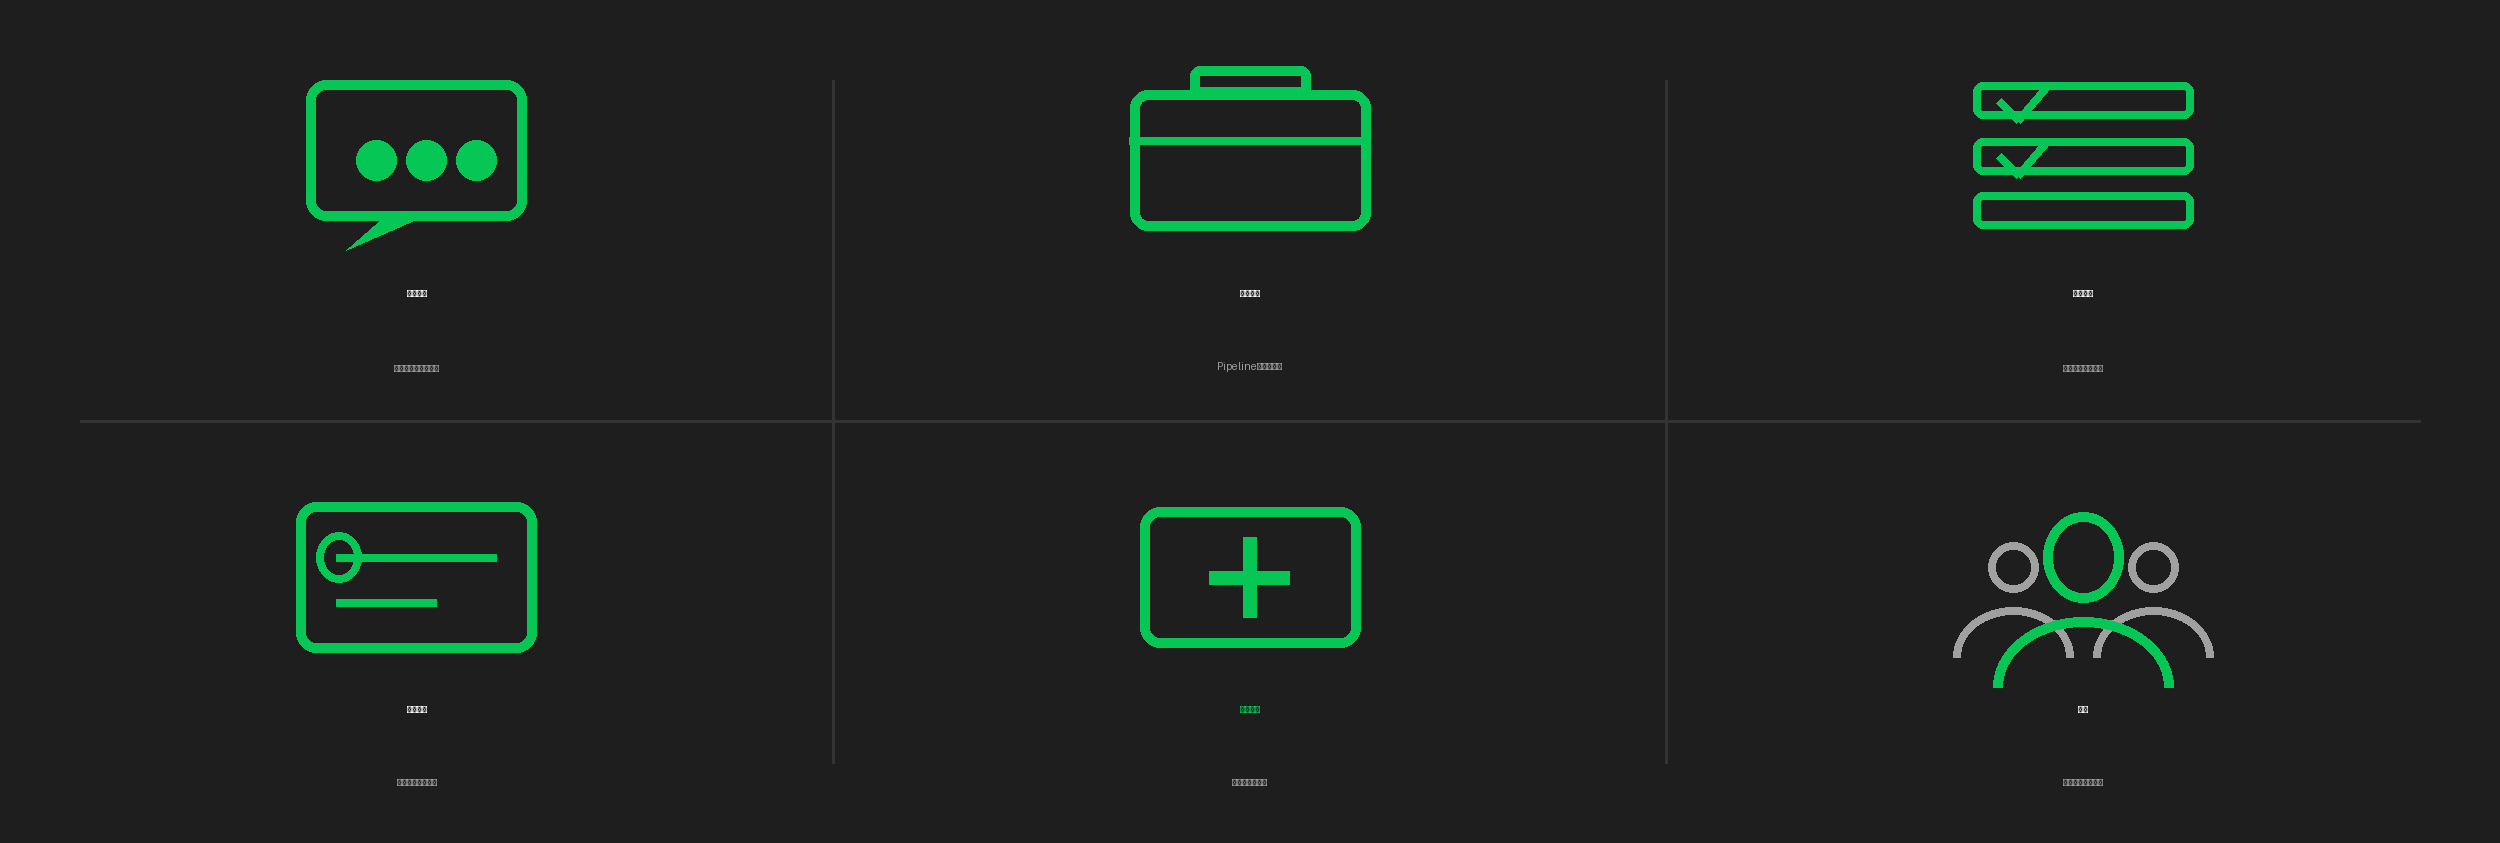
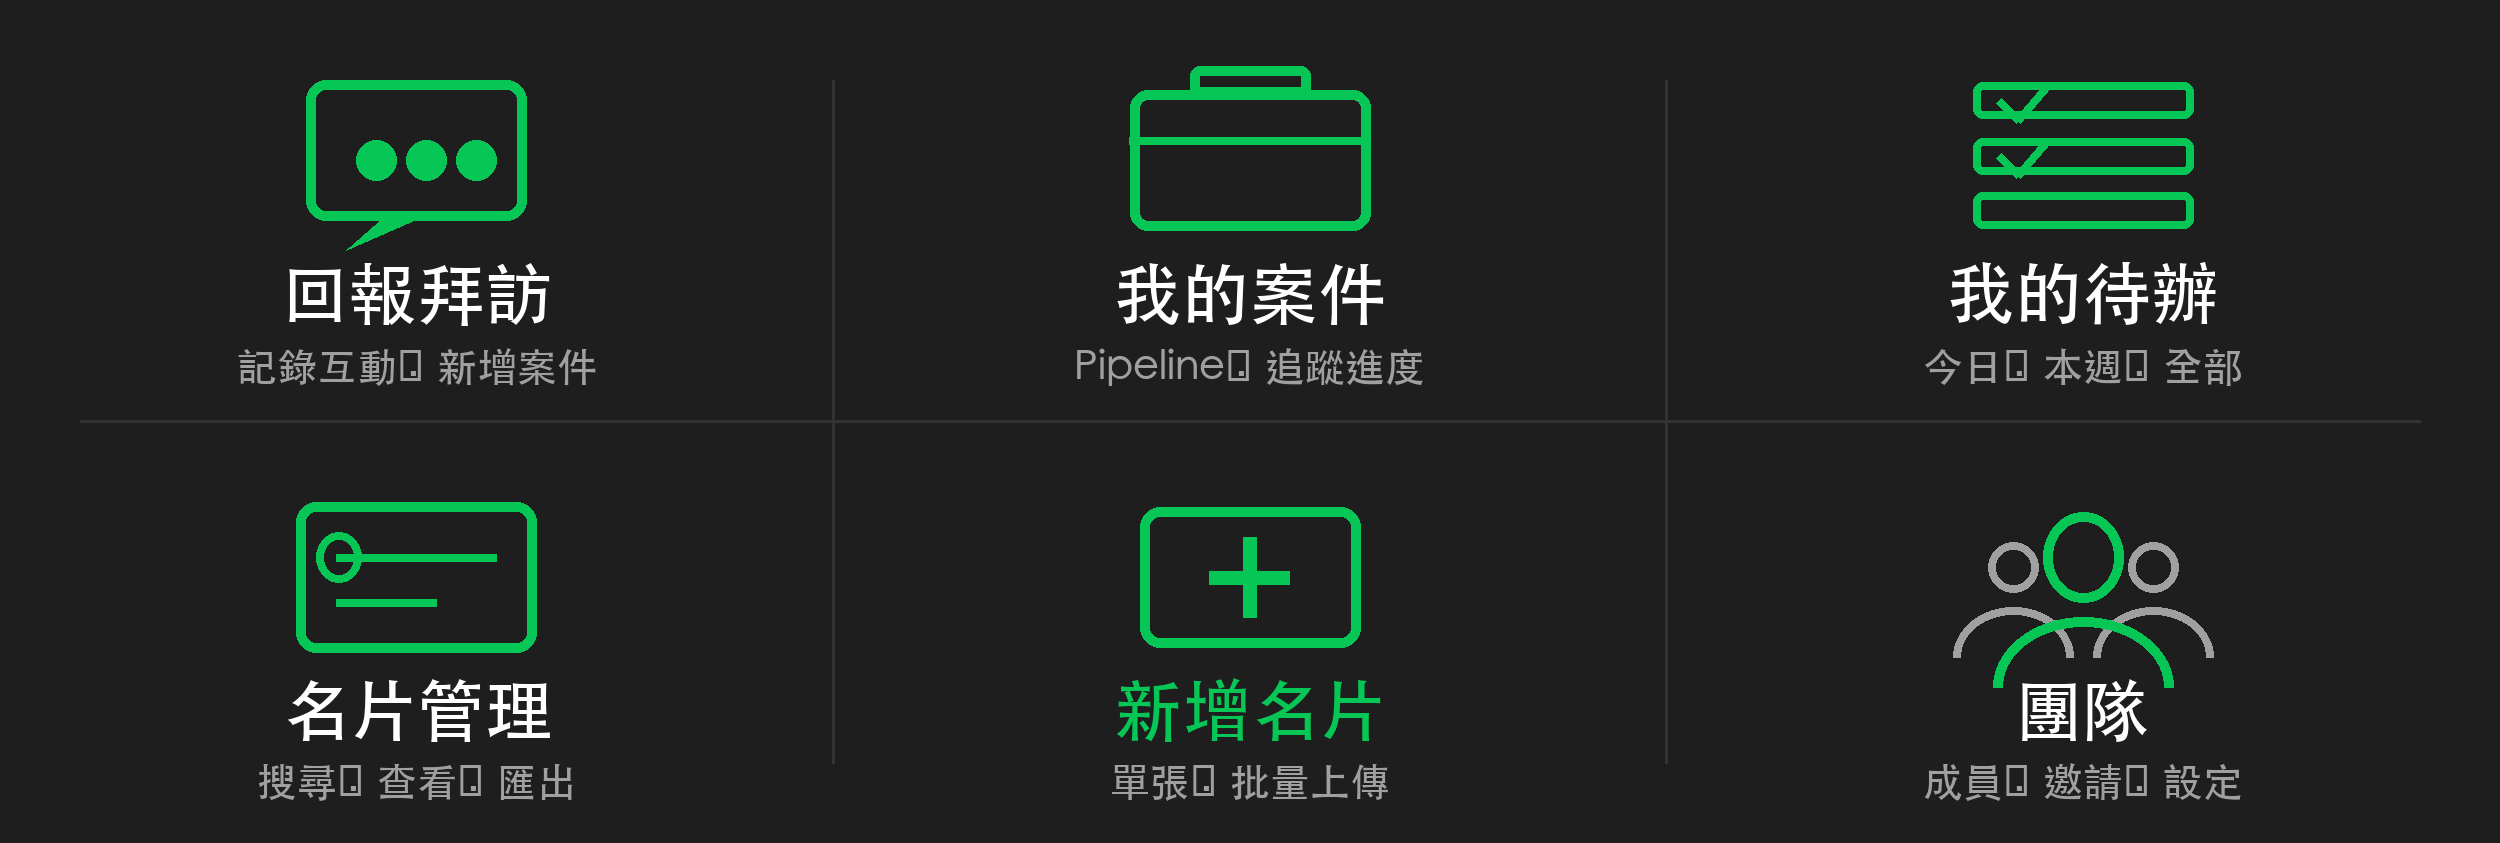
fix: CRM buttons size in components.css, parseRoute strips query params, fix rich menu font path

diff --git a/app/liff_app/styles/components.css b/app/liff_app/styles/components.css
@@ -383,17 +383,37 @@
       white-space: nowrap;
     }
 
+    /* ========== CRM Button ========== */
+    .crm-button {
+      width: 100%;
+      padding: 18px 20px;
+      background: white;
+      color: var(--color-primary);
+      border: 2px solid var(--color-primary);
+      border-radius: var(--radius-md);
+      font-family: var(--font-body);
+      font-weight: 600;
+      font-size: 16px;
+      cursor: pointer;
+      transition: background 0.15s ease, transform 0.1s ease;
+    }
+
+    .crm-button:active {
+      background: var(--color-bg-2);
+      transform: scale(0.98);
+    }
+
     /* ========== Edit Button ========== */
     .edit-button {
       width: 100%;
-      padding: var(--space-16);
+      padding: 18px 20px;
       background: linear-gradient(135deg, var(--color-primary) 0%, var(--color-primary-dark) 100%);
       color: white;
       border: none;
       border-radius: var(--radius-md);
       font-family: var(--font-body);
       font-weight: 600;
-      font-size: 14px;
+      font-size: 16px;
       cursor: pointer;
       transition: transform 0.1s ease, box-shadow 0.2s ease;
       box-shadow: var(--shadow-md);

diff --git a/app/liff_app/app.js b/app/liff_app/app.js
@@ -31,7 +31,7 @@ import Header from "./components/Header.js?v=3";
 // #/cards/:id/edit → CardEdit
 
 function parseRoute(hash) {
-  const path = hash.replace(/^#/, "") || "/";
+  const path = (hash.replace(/^#/, "") || "/").split("?")[0];
   if (path === "/crm")      return { view: "CrmInput", tab: "crm" };
   if (path === "/deals")    return { view: "DealList", tab: "crm" };
   if (path === "/actions")  return { view: "ActionList", tab: "crm" };

diff --git a/assets/generate_menu.py b/assets/generate_menu.py
@@ -18,10 +18,20 @@ draw.line([(833, 80), (833, height - 80)], fill=line_color, width=3)
 draw.line([(1666, 80), (1666, height - 80)], fill=line_color, width=3)
 draw.line([(80, row_mid), (width - 80, row_mid)], fill=line_color, width=3)
 
-try:
-    font_main = ImageFont.truetype("/System/Library/Fonts/PingFang.ttc", 68, index=0)
-    font_sub  = ImageFont.truetype("/System/Library/Fonts/PingFang.ttc", 40, index=0)
-except IOError:
+FONT_CANDIDATES = [
+    "/System/Library/Fonts/STHeiti Medium.ttc",
+    "/System/Library/Fonts/STHeiti Light.ttc",
+    "/Library/Fonts/Arial Unicode.ttf",
+]
+font_main = font_sub = None
+for path in FONT_CANDIDATES:
+    try:
+        font_main = ImageFont.truetype(path, 68)
+        font_sub  = ImageFont.truetype(path, 40)
+        break
+    except IOError:
+        continue
+if font_main is None:
     font_main = ImageFont.load_default()
     font_sub  = ImageFont.load_default()
 
